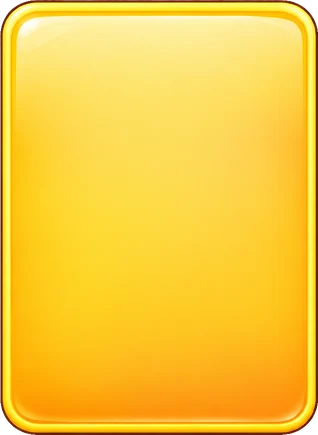
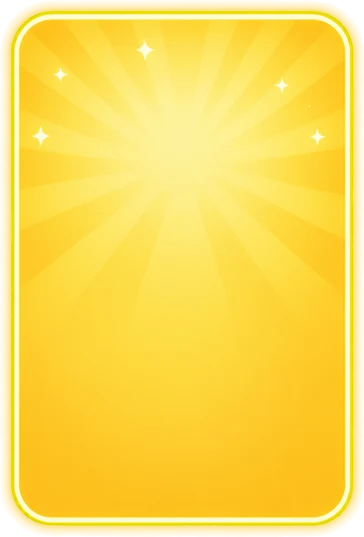
Bloco amarelo como na variação 7: raios de sol, brilhinhos, halo dourado e aro creme fino (BUG-20261026-ORQ-popup-trico-ajustes)
Regerado no ChatGPT sobre verde; o halo foi separado do verde por desmistura e sai para fora do bloco (border-image-outset).

diff --git a/src/client/ui/escolha.css b/src/client/ui/escolha.css
@@ -13,7 +13,7 @@
 #confirmation.escolha-arte .chosen-card{margin:0;padding:8px 40px 8px 8px;border-radius:var(--r-janela);background:var(--c-trilho)}
 #confirmation.escolha-arte .chosen-actions{display:grid;grid-template-columns:1fr 1fr;gap:10px;align-items:stretch}
 #confirmation.escolha-arte :is(#enter-coop,.solo-row){border:0;border-radius:0;box-shadow:none;background:none;border-image:var(--bloco) var(--bloco-corte) fill / var(--bloco-borda) stretch;min-width:0}
-#confirmation.escolha-arte #enter-coop{--bloco:url('/art/menu/escolha/bloco-amigos.webp');--bloco-corte:34;--bloco-borda:17px;display:flex;flex-direction:column;align-items:stretch;width:100%;margin:0;padding:8px 8px 10px;white-space:normal;color:var(--c-breu)}
+#confirmation.escolha-arte #enter-coop{--bloco:url('/art/menu/escolha/bloco-amigos.webp');--bloco-corte:36;--bloco-borda:30px;border-image-outset:9px;display:flex;flex-direction:column;align-items:stretch;width:100%;margin:0;padding:8px 8px 10px;white-space:normal;color:var(--c-breu)}
 #confirmation.escolha-arte .solo-row{--bloco:url('/art/menu/escolha/bloco-sozinho.webp');--bloco-corte:34 34 76 34;--bloco-borda:17px 17px 38px 17px;display:flex;flex-direction:column;gap:6px;padding:8px 8px 10px}
 #confirmation.escolha-arte #enter-island{display:flex;flex:1;flex-direction:column;align-items:stretch;width:100%;margin:0;padding:0;border:0;background:none;white-space:normal;color:var(--c-papel-claro)}
 #confirmation.escolha-arte .escolha-img{display:block;flex:1 1 var(--escolha-img-h);width:100%;min-height:0;height:var(--escolha-img-h);object-fit:contain;object-position:50% 100%}
